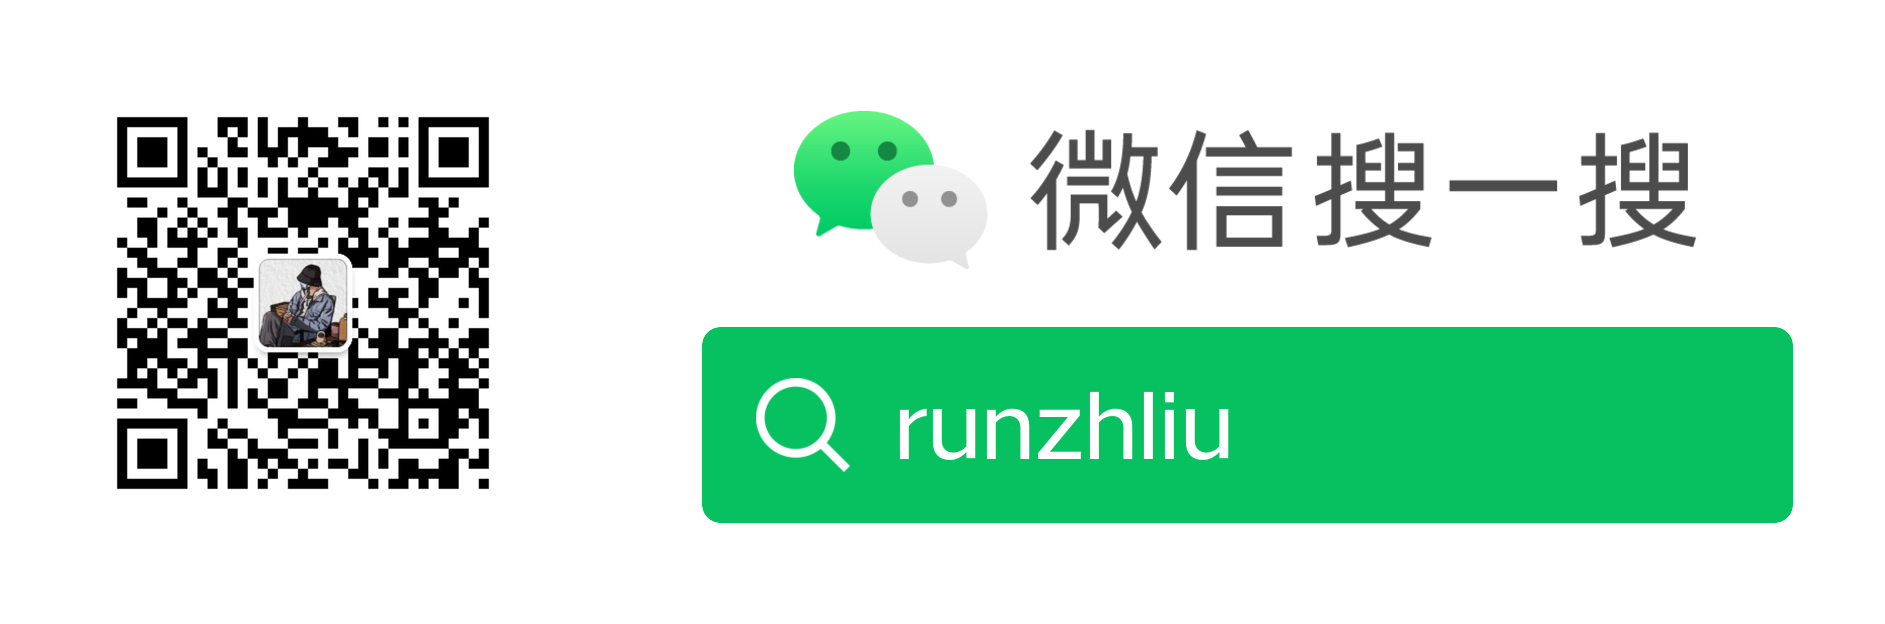
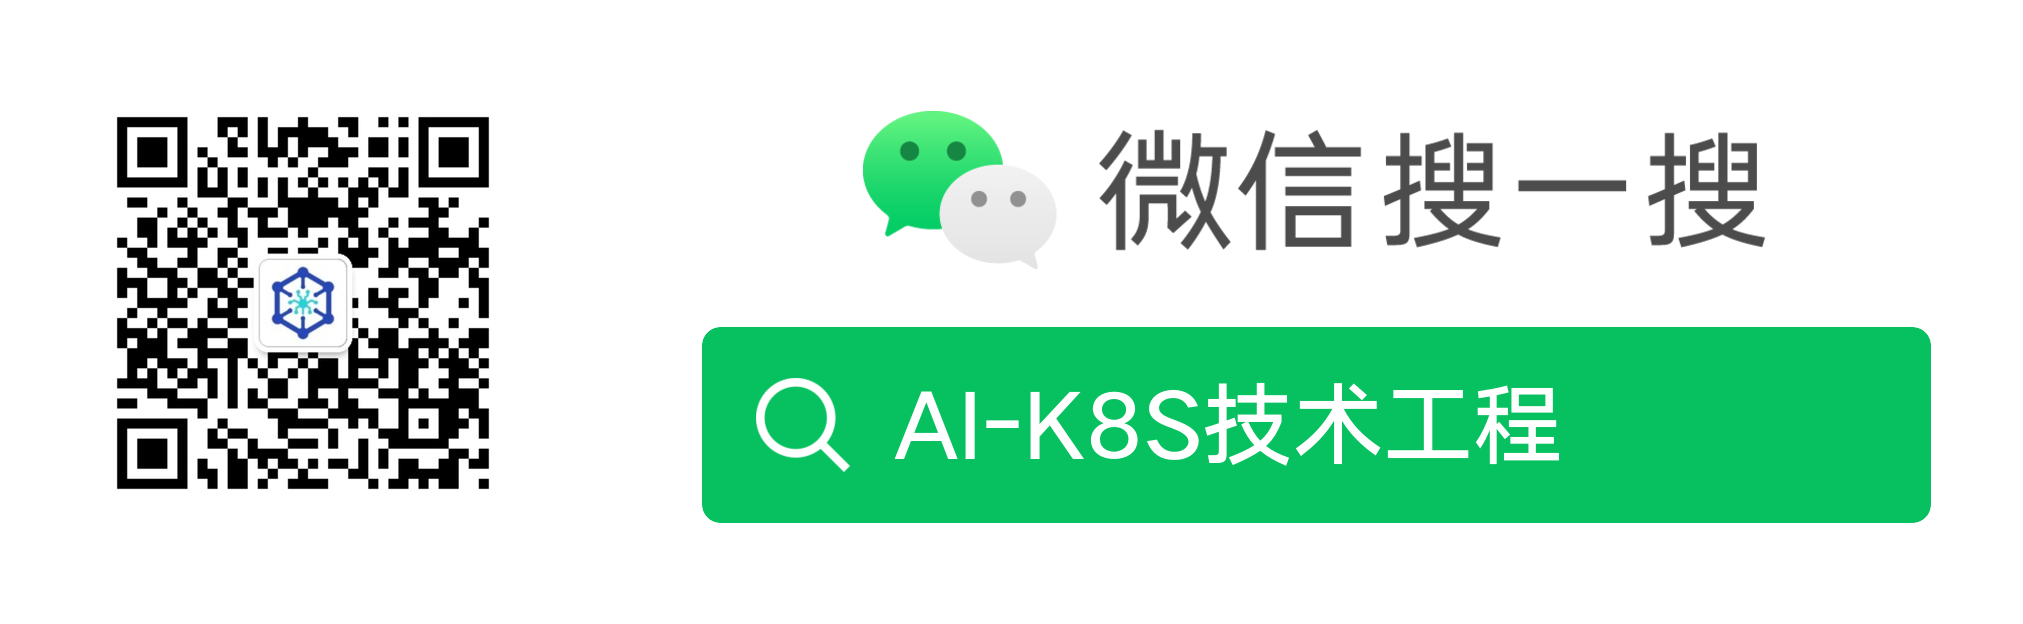
docs: update WeChat account branding

diff --git a/scripts/publish_wechat.py b/scripts/publish_wechat.py
@@ -385,7 +385,7 @@ def command_draft(args: argparse.Namespace) -> None:
     load_env_file(args.env_file)
     app_id = required_env("WECHAT_APP_ID")
     app_secret = required_env("WECHAT_APP_SECRET")
-    author = os.environ.get("WECHAT_AUTHOR", "runzhliu").strip()
+    author = os.environ.get("WECHAT_AUTHOR", "AI-K8S技术工程").strip()
     source_url = (
         args.source_url.strip()
         if args.source_url is not None
@@ -419,7 +419,7 @@ def command_update(args: argparse.Namespace) -> None:
     load_env_file(args.env_file)
     app_id = required_env("WECHAT_APP_ID")
     app_secret = required_env("WECHAT_APP_SECRET")
-    author = os.environ.get("WECHAT_AUTHOR", "runzhliu").strip()
+    author = os.environ.get("WECHAT_AUTHOR", "AI-K8S技术工程").strip()
     source_url = (
         args.source_url.strip()
         if args.source_url is not None

diff --git a/articles/wechat/README.md b/articles/wechat/README.md
@@ -16,7 +16,7 @@ $EDITOR .deploy-secrets/wechat.env
 ```dotenv
 WECHAT_APP_ID=<公众号 AppID>
 WECHAT_APP_SECRET=<公众号 AppSecret>
-WECHAT_AUTHOR=runzhliu
+WECHAT_AUTHOR=AI-K8S技术工程
 # 可选的默认“阅读原文”地址；也可以在 make 命令中逐篇覆盖
 WECHAT_SOURCE_URL=https://aik8s.run/path/to/article/
 ```
